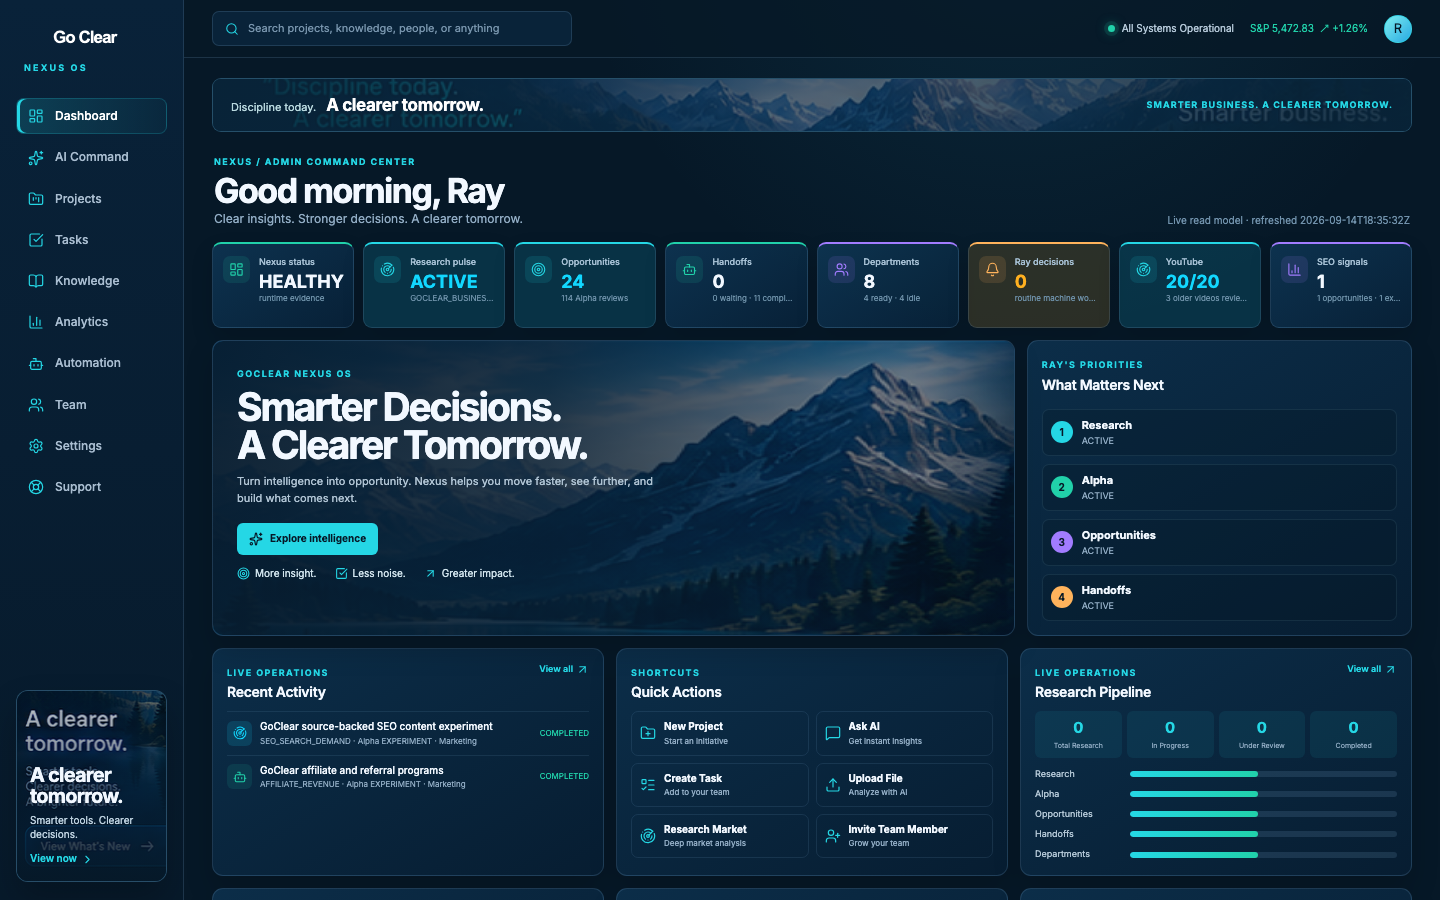
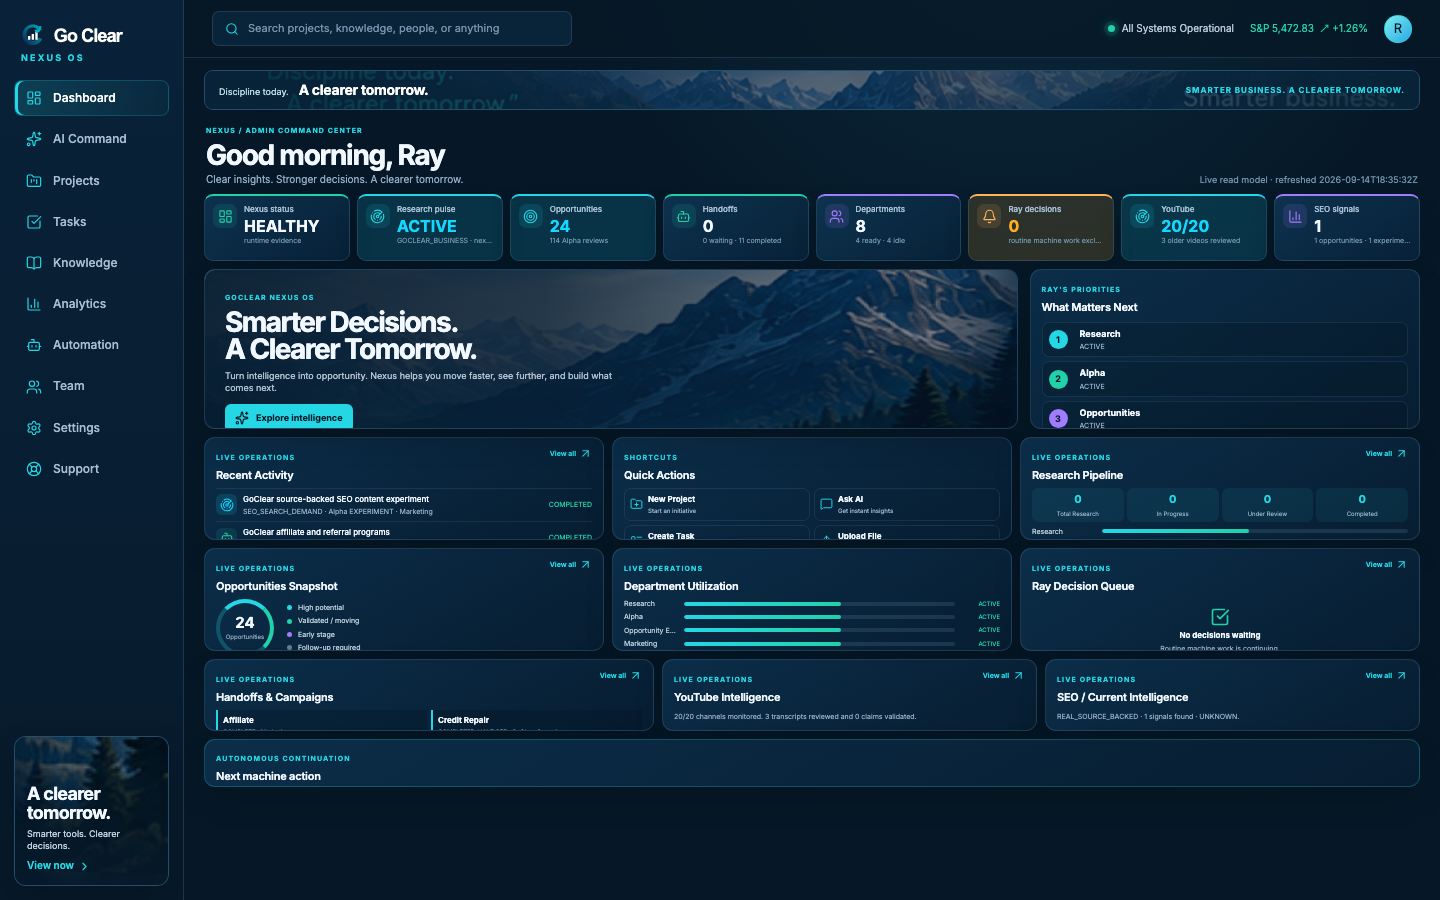
Polish Admin command center visual fidelity

diff --git a/src/admin/liveCompanyIntelligence.css b/src/admin/liveCompanyIntelligence.css
@@ -76,8 +76,12 @@
 }
 
 .live-command-brand { padding: 0 8px; }
-.live-command-brand img { display: block; width: 135px; height: auto; filter: brightness(0) invert(1); }
+.live-command-brand-lockup { display: flex; align-items: center; gap: 7px; height: 30px; }
+.live-command-brand-mark { display: block; width: 25px; height: 25px; }
+.live-command-brand-wordmark { display: block; width: 96px; height: 28px; overflow: hidden; }
+.live-command-brand-wordmark img { display: block; width: 146px; max-width: none; height: auto; transform: translateX(-31px); filter: brightness(0) invert(1); }
 .live-command-brand span { display: block; margin-top: 7px; color: var(--live-cyan); font-size: 9px; font-weight: 700; letter-spacing: .24em; }
+.live-command-brand-lockup span { margin-top: 0; }
 .live-command-sidebar nav { display: grid; gap: 5px; }
 .live-command-sidebar nav a { display: flex; align-items: center; gap: 11px; min-height: 36px; padding: 9px 11px; border: 1px solid transparent; border-radius: 8px; color: #a9bdd0; font-size: 12px; font-weight: 500; text-decoration: none; }
 .live-command-sidebar nav a:hover { color: #fff; background: rgba(37, 215, 229, .08); }
@@ -118,7 +122,7 @@
 .live-command-metrics { display: grid; grid-template-columns: repeat(8, minmax(105px, 1fr)); gap: 9px; }
 .live-command-metric { display: flex; min-height: 86px; gap: 9px; padding: 12px 10px; border: 1px solid var(--live-line); border-top: 2px solid var(--live-cyan); border-radius: 9px; background: linear-gradient(145deg, rgba(14,53,82,.92), rgba(8,34,56,.92)); box-shadow: 0 10px 22px rgba(0,0,0,.14); }
 .live-command-metric.tone-teal { border-top-color: var(--live-teal); }.live-command-metric.tone-purple { border-top-color: var(--live-purple); }.live-command-metric.tone-amber { border-top-color: var(--live-amber); }
-.live-command-metric-icon { display: grid; flex: none; width: 27px; height: 27px; place-items: center; border-radius: 7px; color: var(--live-cyan); background: rgba(37,215,229,.12); }.tone-teal .live-command-metric-icon { color: var(--live-teal); background: rgba(33,209,170,.12); }.tone-purple .live-command-metric-icon { color: var(--live-purple); background: rgba(162,124,255,.13); }.tone-amber .live-command-metric-icon { color: var(--live-amber); background: rgba(255,179,92,.13); }
+.live-command-metric.tone-orange { border-top-color: #ff824d; }.live-command-metric-icon { display: grid; flex: none; width: 27px; height: 27px; place-items: center; border-radius: 7px; color: var(--live-cyan); background: rgba(37,215,229,.12); }.tone-teal .live-command-metric-icon { color: var(--live-teal); background: rgba(33,209,170,.12); }.tone-purple .live-command-metric-icon { color: var(--live-purple); background: rgba(162,124,255,.13); }.tone-amber .live-command-metric-icon { color: var(--live-amber); background: rgba(255,179,92,.13); }.tone-orange .live-command-metric-icon { color: #ff824d; background: rgba(255,130,77,.14); }
 .live-command-metric-copy { min-width: 0; }.live-command-metric-copy span, .live-command-metric-copy small { display: block; overflow: hidden; text-overflow: ellipsis; white-space: nowrap; }.live-command-metric-copy span { color: #a6c0d4; font-size: 9px; font-weight: 500; }.live-command-metric-copy strong { display: block; margin: 4px 0 2px; font-size: 18px; line-height: 1; }.live-command-metric-copy small { color: #6f92aa; font-size: 8px; }
 
 .live-command-hero-grid, .live-command-three-grid, .live-command-footer-grid { display: grid; grid-template-columns: minmax(0, 1.5fr) minmax(230px, .72fr); gap: 12px; margin-top: 12px; }
@@ -146,4 +150,26 @@
 
 @media (max-width: 600px) {
   html, body, #root { overflow: auto; }.live-command-topbar { height: auto; min-height: 58px; flex-wrap: wrap; gap: 8px; padding: 11px 14px; }.live-command-search { order: 2; width: 100%; }.live-command-system { margin-left: 0; }.live-command-market { margin-left: auto; }.live-command-brand-strip { min-height: 76px; align-items: end; padding: 12px; }.live-command-brand-strip div { display: grid; gap: 2px; }.live-command-brand-strip b { display: none; }.live-command-heading { display: block; padding: 17px 0 13px; }.live-command-heading > small { display: block; margin-top: 9px; text-align: left; }.live-command-metrics { grid-template-columns: repeat(2,minmax(0,1fr)); }.live-command-three-grid, .live-command-footer-grid { grid-template-columns: 1fr; }.live-command-three-grid > :last-child, .live-command-footer-grid > :last-child { grid-column: auto; }.live-command-hero-copy { padding: 20px 18px 10px; }.live-command-hero h2 { font-size: 29px; }.live-command-hero-bullets { flex-wrap: wrap; gap: 8px 14px; padding-inline: 18px; }.live-command-actions { grid-template-columns: 1fr; }.live-command-content { padding-inline: 14px; }.live-command-sidebar nav { grid-template-columns: repeat(5,1fr); overflow-x: auto; }.live-command-sidebar nav a { min-width: 54px; }.live-command-pipeline-stats { gap: 4px; }.live-command-pipeline-stats b { font-size: 13px; }
+}
+
+/* 1440x900 reference fit. The page remains scrollable at smaller viewports;
+   only the desktop canvas is locked to the approved single-viewport rhythm. */
+@media (min-width: 1281px) {
+  .live-command-sidebar { gap: 16px; padding: 18px 14px 14px; }
+  .live-command-brand { padding-inline: 7px; }
+  .live-command-brand-wordmark img { width: 146px; }
+  .live-command-brand span { margin-top: 4px; }
+  .live-command-promo { height: 150px; min-height: 150px; }
+  .live-command-promo img { position: absolute; inset: 0; min-height: 0; object-position: 100% 0; transform: scale(3.1); transform-origin: right top; }
+  .live-command-promo-overlay { inset: auto 12px 11px; }
+  .live-command-promo-overlay strong { font-size: 18px; }
+  .live-command-promo-overlay small { margin-top: 5px; font-size: 9px; }
+  .live-command-promo-overlay a { margin-top: 7px; }
+  .live-command-content { display: flex; flex-direction: column; gap: 0; overflow: hidden; padding: 12px 20px 14px; }
+  .live-command-brand-strip { min-height: 40px; height: 40px; padding-inline: 14px; }
+  .live-command-brand-strip strong { font-size: 14px; }.live-command-brand-strip span { font-size: 9px; }.live-command-brand-strip b { font-size: 8px; }
+  .live-command-heading { flex: none; padding: 10px 2px 8px; }.live-command-heading h1 { font-size: 28px; }.live-command-heading p { font-size: 10px; }.live-command-heading > small { font-size: 9px; }
+  .live-command-metrics { flex: none; gap: 7px; }.live-command-metric { min-height: 67px; padding: 8px; gap: 7px; }.live-command-metric-icon { width: 24px; height: 24px; }.live-command-metric-copy span { font-size: 8px; }.live-command-metric-copy strong { margin: 3px 0 2px; font-size: 16px; }.live-command-metric-copy small { font-size: 7px; }
+  .live-command-hero-grid { flex: none; height: 160px; margin-top: 8px; }.live-command-hero, .live-command-priorities { min-height: 160px; height: 160px; }.live-command-hero-copy { padding: 17px 20px 7px; }.live-command-hero h2 { margin: 4px 0 6px; font-size: 28px; }.live-command-hero p { max-width: 390px; font-size: 9px; line-height: 1.4; }.live-command-primary { margin-top: 9px; padding: 7px 10px; font-size: 9px; }.live-command-hero-bullets { gap: 12px; padding: 0 20px 11px; font-size: 8px; }.live-command-priorities { padding: 11px 12px; }.live-command-priorities ol { gap: 4px; margin-top: 7px; }.live-command-priorities li { padding: 5px 6px; }.live-command-priorities li > b { width: 19px; height: 19px; font-size: 9px; }.live-command-priorities strong { font-size: 9px; }.live-command-priorities small { font-size: 7px; }
+  .live-command-three-grid, .live-command-footer-grid { flex: none; height: 103px; margin-top: 8px; gap: 8px; }.live-command-footer-grid { height: 72px; }.live-command-panel { height: 100%; padding: 9px 11px; }.live-command-panel-head { margin-bottom: 5px; }.live-command-panel-head h3 { font-size: 11px; }.live-command-eyebrow { font-size: 7px; }.live-command-panel-head a { font-size: 7px; }.live-command-detail-row { padding: 5px 0; grid-template-columns: 21px minmax(0,1fr) auto; gap: 6px; }.live-command-detail-row strong { font-size: 8px; }.live-command-detail-row small { font-size: 7px; }.live-command-detail-row em { font-size: 7px; }.live-command-row-icon { width: 21px; height: 21px; }.live-command-actions { gap: 4px; }.live-command-actions a { padding: 5px; gap: 5px; font-size: 8px; }.live-command-actions a > svg { width: 13px; }.live-command-actions small { font-size: 6px; }.live-command-pipeline-stats { gap: 3px; margin-bottom: 5px; }.live-command-pipeline-stats b { padding: 4px 2px; font-size: 11px; }.live-command-pipeline-stats small { font-size: 6px; }.live-command-bars { gap: 4px; }.live-command-bars > div { grid-template-columns: 65px minmax(0,1fr); gap: 5px; }.live-command-bars span, .live-command-bars small { font-size: 7px; }.live-command-bars i { height: 4px; }.live-command-bars.departments > div { grid-template-columns: 55px minmax(0,1fr) 40px; }.live-command-bars.departments small { font-size: 6px; }.live-command-ring { width: 58px; height: 58px; border-width: 4px; }.live-command-opportunity { grid-template-columns: 64px minmax(0,1fr); gap: 7px; }.live-command-ring strong { font-size: 15px; }.live-command-ring small { font-size: 6px; }.live-command-legend { gap: 4px; }.live-command-legend span { font-size: 7px; }.live-command-legend i { width: 5px; height: 5px; }.live-command-value { padding-top: 5px; }.live-command-value strong { font-size: 12px; }.live-command-value small, .live-command-copy { font-size: 7px; }.live-command-empty { gap: 3px; padding: 8px 2px; }.live-command-empty strong { font-size: 8px; }.live-command-empty span { font-size: 7px; }.live-command-mini-grid { gap: 4px; }.live-command-mini-grid > div { padding: 5px; }.live-command-mini-grid strong { font-size: 8px; }.live-command-mini-grid small { font-size: 6px; }.live-command-next { flex: none; height: 48px; margin-top: 8px; padding: 8px 11px; }.live-command-next p { margin: 3px 0 4px; font-size: 9px; }.live-command-next > span { font-size: 7px; }
 }

diff --git a/src/admin/LiveCompanyIntelligence.jsx b/src/admin/LiveCompanyIntelligence.jsx
@@ -65,14 +65,14 @@ export default function LiveCompanyIntelligence() {
     ['opportunity', 'Opportunities', s.opportunities.active, `${s.opportunities.alpha_reviews} Alpha reviews`, 'cyan'],
     ['automation', 'Handoffs', s.handoffs.active, `${s.handoffs.waiting} waiting · ${s.handoffs.completed} completed`, 'teal'],
     ['team', 'Departments', s.departments.active, `${s.departments.ready} ready · ${s.departments.legitimately_idle} idle`, 'purple'],
-    ['notifications', 'Ray decisions', s.ray_decisions.count, 'routine machine work excluded', 'amber'],
+    ['notifications', 'Ray decisions', s.ray_decisions.count, 'routine machine work excluded', s.ray_decisions.count ? 'orange' : 'amber'],
     ['research', 'YouTube', `${s.youtube.active_monitored}/${s.youtube.total_channels}`, `${s.youtube.older_videos_reviewed} older videos reviewed`, 'cyan'],
     ['analytics', 'SEO signals', s.seo.signals_found, `${s.seo.opportunities_created} opportunities · ${s.seo.experiments_created} experiments`, 'purple'],
   ]
 
   return <main className="live-command-page">
     <aside className="live-command-sidebar">
-      <div className="live-command-brand"><img src="/brand/GoClearLogo.svg" alt="GoClear" /><span>NEXUS OS</span></div>
+      <div className="live-command-brand"><div className="live-command-brand-lockup"><img className="live-command-brand-mark" src="/brand/GoClearMark.svg" alt="" /><span className="live-command-brand-wordmark"><img src="/brand/GoClearLogo.svg" alt="GoClear" /></span></div><span>NEXUS OS</span></div>
       <nav aria-label="Admin navigation">
         <a className="active" href="#/live-intelligence"><Icon name="dashboard" />Dashboard</a>
         <a href="#/alpha"><Icon name="ai" />AI Command</a><a href="#/projects"><Icon name="projects" />Projects</a>
